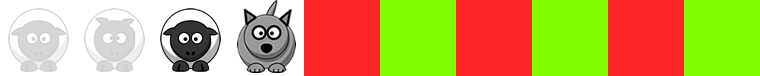
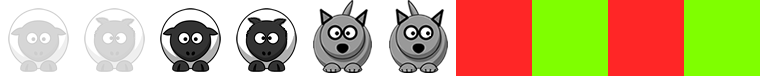
UI changes

Changed region(s): [[0.3026, 0.0, 0.6053, 1.0]]

diff --git a/app/index.html b/app/index.html
@@ -87,8 +87,8 @@
             </tr>
             <tr>
               <td class="dot"><span></span></td>
-              <td class="dot"><span></span></td>
-              <td class="dot"><span></span></td>
+              <td class="dot"><span class="sheep"></span></td>
+              <td class="dot"><span class="wolf"></span></td>
               <td class="dot"><span></span></td>
               <td class="dot"><span></span></td>
               <td class="dot"><span></span></td>

diff --git a/app/css/style.css b/app/css/style.css
@@ -38,3 +38,19 @@ table span {
 table span:hover {
 	background-position: -76px 0;
 }
+
+table span.sheep {
+	background-position: -152px 0;
+}
+
+table span.sheep:hover {
+	background-position: -228px 0;
+}
+
+table span.wolf {
+	background-position: -304px 0;
+}
+
+table span.wolf:hover {
+	background-position: -380px 0;
+}
